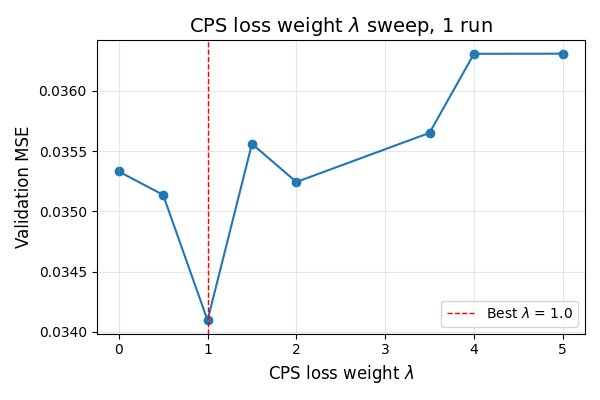
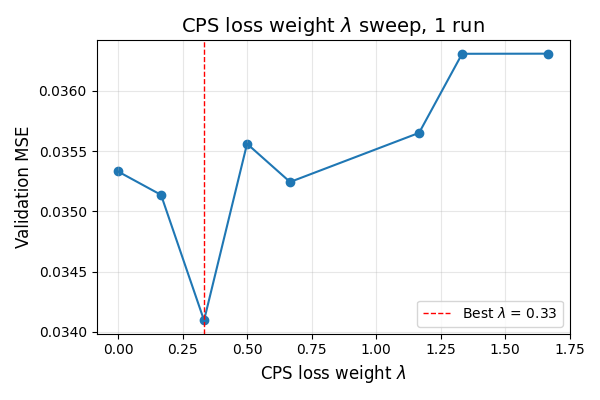
Add comment on n-CPS implementation and update CPS loss weight plot for 3-CPS

diff --git a/src/trainer.py b/src/trainer.py
@@ -399,7 +399,13 @@ class SemiSupervisedCPS:
 
 
 class NCrossPseudoSupervision:
-    """n-Cross Pseudo-Supervision trainer"""
+    """n-Cross Pseudo-Supervision trainer
+    
+    Note: In this implementaion the CPS loss is additionally scaled by 1/n, therefore
+    true CPS loss weight λ is λ = λ'/n, where n is number of models, and λ' is the
+    weight `cps_loss_weight` that is supplied to the trainer.
+    We are reporting the true λ, not λ'.
+    """
 
     def __init__(
         self,
@@ -543,6 +549,7 @@ class NCrossPseudoSupervision:
                 cps_labeled_loss_per_model = []
                 cps_unlabeled_loss_per_model = []
                 for i in range(len(self.models)):
+                    # 1/(n-1) * MSE(y^_i, y^_j)
                     model_cps_labeled_loss = torch.stack(
                         [
                             self.supervised_criterion(
@@ -561,6 +568,7 @@ class NCrossPseudoSupervision:
                     ).mean()
                     cps_labeled_loss_per_model.append(model_cps_labeled_loss)
                     cps_unlabeled_loss_per_model.append(model_cps_unlabeled_loss)
+                # This should have been sum, now I get 1/(n-1) and then scale by 1/n again
                 cps_labeled_loss = torch.stack(cps_labeled_loss_per_model).mean()
                 cps_unlabeled_loss = torch.stack(cps_unlabeled_loss_per_model).mean()
                 cps_loss = cps_labeled_loss + cps_unlabeled_loss
